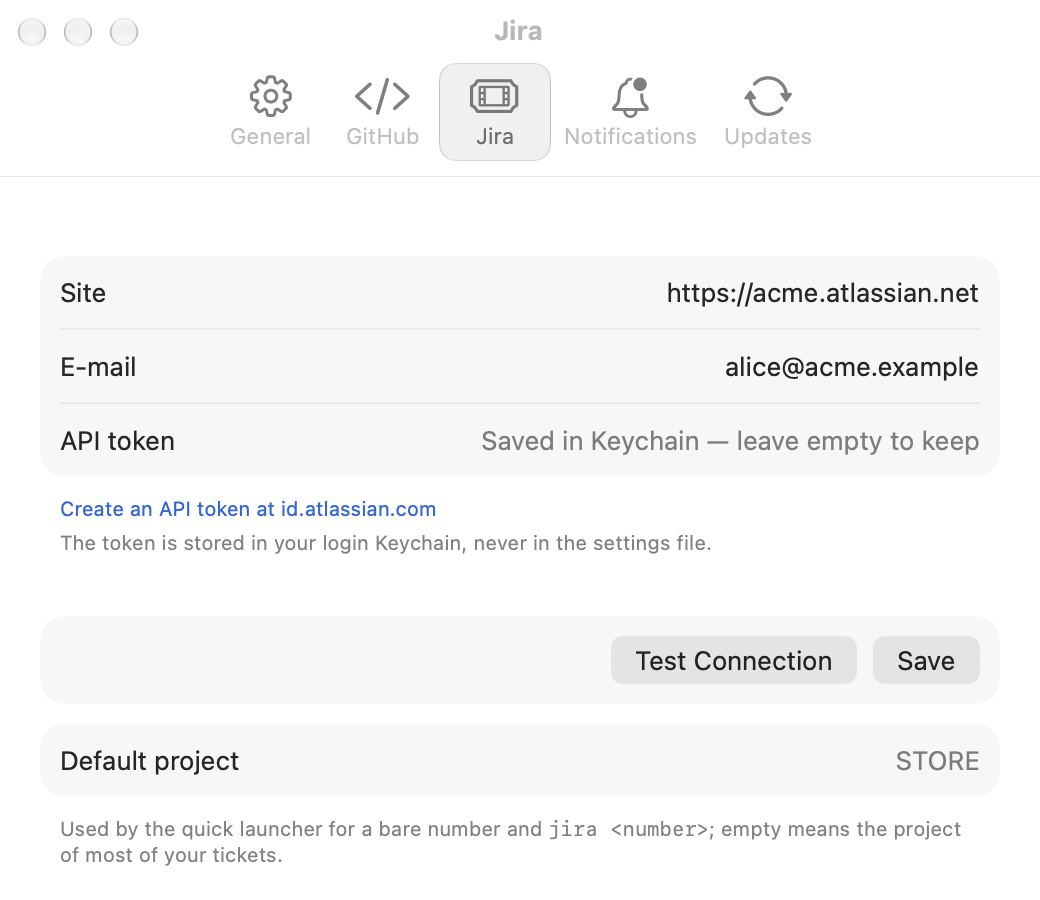
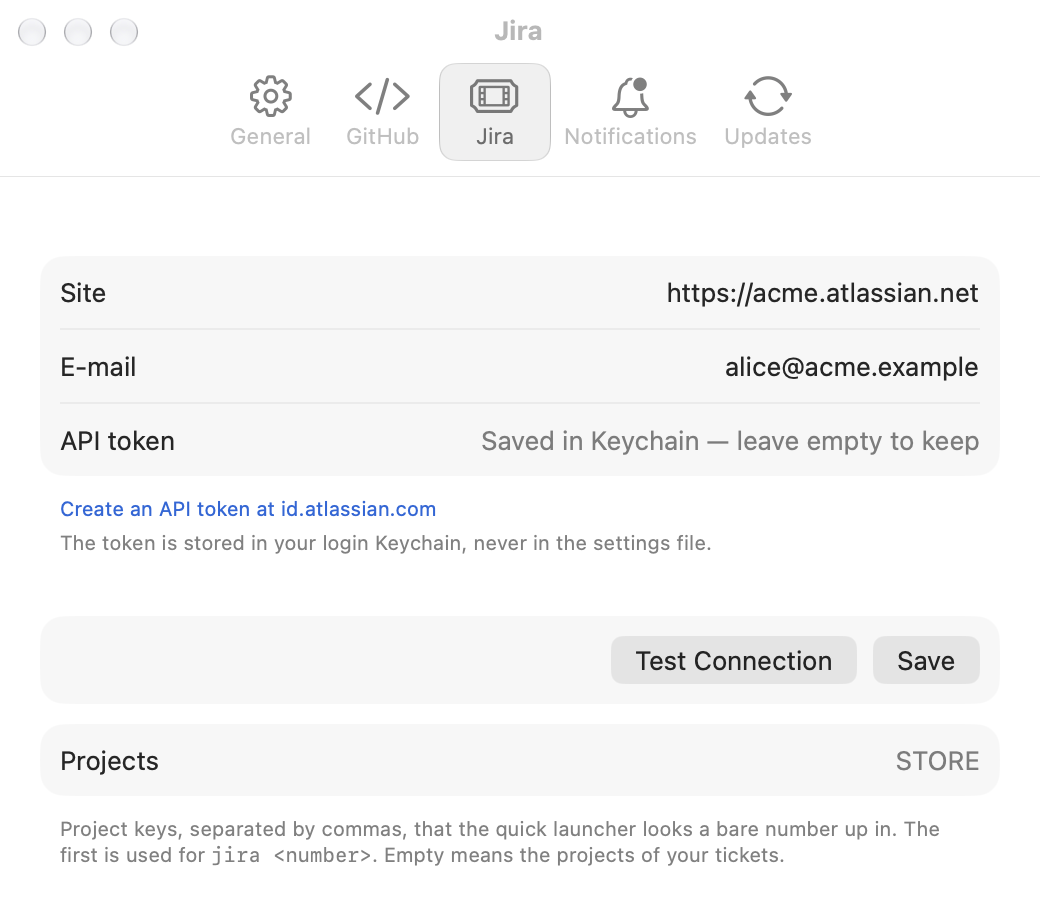
docs: the Projects setting and looked-up titles in the quick launcher

Changed region(s): [[0.0615, 0.9022, 0.9231, 0.9644], [0.0615, 0.84, 0.2462, 0.8711]]

diff --git a/docs/cs/manual.html b/docs/cs/manual.html
@@ -160,7 +160,7 @@ gh auth login</code></pre>
         <p>Otevřené tikety z Jira Cloud čte DevPulse pomocí API tokenu.</p>
         <figure class="fig" style="max-width:34rem">
           <div class="view" style="--iw:1040;--ih:900">
-            <img src="../assets/manual/devpulse-settings-jira.png" alt="Záložka Jira v nastavení s webem, e-mailem, uloženým tokenem, tlačítky Test Connection a Save a výchozím projektem">
+            <img src="../assets/manual/devpulse-settings-jira.png" alt="Záložka Jira v nastavení s webem, e-mailem, uloženým tokenem, tlačítky Test Connection a Save a projekty">
             <span class="mark" style="--x:3.8;--y:28.5;--w:92.3;--h:24.4"><b>1</b></span>
             <span class="mark" style="--x:5.3;--y:54.8;--w:37.5;--h:3.6"><b>2</b></span>
             <span class="mark" style="--x:58.4;--y:70.4;--w:24.4;--h:6"><b>3</b></span>
@@ -189,10 +189,11 @@ gh auth login</code></pre>
         Keychain — leave empty to keep</span>: když měníte <span class="ui">Site</span> nebo e-mail,
         nechte ho prázdné a token zůstane, nebo vložte nový a nahradíte ho.</p>
         <dl class="controls">
-          <dt><span class="n">5</span>Default project</dt>
-          <dd>Klíč projektu, který <a href="#launcher">rychlé hledání</a> doplní
-          před <code>jira &lt;číslo&gt;</code> a samotné číslo. Prázdné pole znamená projekt,
-          ve kterém máte nejvíc tiketů; pole ho ukazuje šedě.</dd>
+          <dt><span class="n">5</span>Projects</dt>
+          <dd>Klíče projektů oddělené čárkou (<code>STORE, WA</code>), ve kterých
+          <a href="#launcher">rychlé hledání</a> hledá samotné číslo; první z nich doplní
+          před <code>jira &lt;číslo&gt;</code>. Nejvýš deset. Prázdné pole znamená projekty
+          vašich tiketů, nejdřív ten, kde jich máte nejvíc; pole je ukazuje šedě.</dd>
         </dl>
         <p>DevPulse ukazuje tikety, které máte přiřazené a které ještě nejsou
         hotové.</p>
@@ -257,7 +258,7 @@ gh auth login</code></pre>
         klíč v názvu složky session Claude Code udělá totéž pro session. Názvy
         jako <code>UTF-8</code> nebo <code>SHA-256</code> se za klíče
         nepovažují, a když je klíčů víc, vyhraje klíč projektu, ve kterém máte
-        tikety (nebo <a href="#jira">výchozího projektu</a>). Když najedete
+        tikety (nebo jednoho z vašich <a href="#jira">projektů</a>). Když najedete
         myší na řádek, uvidíte celý název nebo složku.</p>
         <p>DevPulse ukazuje interaktivní sessions nativního příkazu
         <code>claude</code>, tedy toho, který nainstaluje vlastní instalátor
@@ -431,15 +432,15 @@ gh auth login</code></pre>
           <table>
             <thead><tr><th>Napíšete</th><th>Výsledek</th></tr></thead>
             <tbody>
-              <tr><td><code>2474</code></td><td>Všechno s tímto číslem: vaše pull requesty a žádosti o review s číslem 2474 v libovolném repozitáři, za nimi vaše tikety s číslem 2474 v libovolném projektu (<code>STORE-2474</code>, <code>WA-2474</code>) a sessions Claude Code, jejichž klíč z Jiry nebo název složky toto číslo obsahuje (<code>store-2474-fix</code>, ale ne <code>store-24740</code>). Nakonec řádky, které otevřou 2474 ve <a href="#github">výchozím repozitáři</a> a <code>STORE-2474</code> ve <a href="#jira">výchozím projektu</a>, pokud už v seznamu nejsou.</td></tr>
+              <tr><td><code>2474</code></td><td>Všechno s tímto číslem: vaše pull requesty a žádosti o review s číslem 2474 v libovolném repozitáři, za nimi vaše tikety s číslem 2474 v libovolném projektu (<code>STORE-2474</code>, <code>WA-2474</code>) a sessions Claude Code, jejichž klíč z Jiry nebo název složky toto číslo obsahuje (<code>store-2474-fix</code>, ale ne <code>store-24740</code>). Nakonec pull request 2474 ve <a href="#github">výchozím repozitáři</a> a tiket 2474 v každém z vašich <a href="#jira">projektů</a> (<code>STORE-2474</code>, <code>WA-2474</code>), pokud už v seznamu nejsou. Jakmile přestanete psát, DevPulse tyto řádky dohledá: ukážou název a stav a tikety nebo pull requesty, které neexistují, zmizí.</td></tr>
               <tr><td><code>gh</code></td><td>Vaše pull requesty, za nimi žádosti o review.</td></tr>
               <tr><td><code>gh invoice</code></td><td>Ty, jejichž název nebo repozitář text obsahuje.</td></tr>
-              <tr><td><code>gh 812</code></td><td>Váš pull request nebo žádost o review s tímto číslem. Když takový nemáte, řádek, který otevře <code>812</code> ve <a href="#github">výchozím repozitáři</a>.</td></tr>
+              <tr><td><code>gh 812</code></td><td>Váš pull request nebo žádost o review s tímto číslem. Když takový nemáte, pull request 812 ve <a href="#github">výchozím repozitáři</a> s názvem a stavem, nebo <span class="ui">Not found on GitHub</span>.</td></tr>
               <tr><td><code>gh webapp 455</code></td><td>Pull request 455 v daném repozitáři: stačí název repozitáře, ve kterém máte pull requesty, nebo celé <code>owner/name</code>.</td></tr>
               <tr><td><code>jira</code></td><td>Vaše tikety.</td></tr>
               <tr><td><code>jira export</code></td><td>Ty, jejichž název nebo klíč text obsahuje.</td></tr>
-              <tr><td><code>jira STORE-2290</code></td><td>Tento tiket, i když ve vašem seznamu není.</td></tr>
-              <tr><td><code>jira 2290</code></td><td>Totéž s <a href="#jira">výchozím projektem</a> na začátku: <code>STORE-2290</code>.</td></tr>
+              <tr><td><code>jira STORE-2290</code></td><td>Tento tiket, i když ve vašem seznamu není, s názvem a stavem, nebo <span class="ui">Not found in Jira</span>.</td></tr>
+              <tr><td><code>jira 2290</code></td><td>Tiket 2290 v každém z vašich <a href="#jira">projektů</a>. Řádek prvního projektu zůstane, i když tiket neexistuje.</td></tr>
             </tbody>
           </table>
         </div>

diff --git a/docs/manual.html b/docs/manual.html
@@ -159,7 +159,7 @@ gh auth login</code></pre>
         <p>DevPulse reads your open Jira Cloud tickets with an API token.</p>
         <figure class="fig" style="max-width:34rem">
           <div class="view" style="--iw:1040;--ih:900">
-            <img src="assets/manual/devpulse-settings-jira.png" alt="The Jira tab of Settings with site, e-mail, a saved token, the Test Connection and Save buttons and the default project">
+            <img src="assets/manual/devpulse-settings-jira.png" alt="The Jira tab of Settings with site, e-mail, a saved token, the Test Connection and Save buttons and the projects">
             <span class="mark" style="--x:3.8;--y:28.5;--w:92.3;--h:24.4"><b>1</b></span>
             <span class="mark" style="--x:5.3;--y:54.8;--w:37.5;--h:3.6"><b>2</b></span>
             <span class="mark" style="--x:58.4;--y:70.4;--w:24.4;--h:6"><b>3</b></span>
@@ -189,10 +189,11 @@ gh auth login</code></pre>
         Keychain — leave empty to keep</span>: leave it empty to keep the token
         when you change the site or e-mail, or paste a new one to replace it.</p>
         <dl class="controls">
-          <dt><span class="n">5</span>Default project</dt>
-          <dd>The project key the <a href="#launcher">quick launcher</a> puts in
-          front of <code>jira &lt;number&gt;</code> and a bare number. Empty means the project of
-          most of your tickets; the field shows it in grey.</dd>
+          <dt><span class="n">5</span>Projects</dt>
+          <dd>The project keys, separated by commas (<code>STORE, WA</code>), in which the
+          <a href="#launcher">quick launcher</a> looks up a bare number; the first one is what
+          <code>jira &lt;number&gt;</code> puts in front. Up to ten. Empty means the projects of
+          your tickets, most tickets first; the field shows them in grey.</dd>
         </dl>
         <p>DevPulse lists the tickets assigned to you that are not done.</p>
       </section>
@@ -255,7 +256,7 @@ gh auth login</code></pre>
         ticket; a Jira key in a Claude Code session's folder name does the same
         for the session. Names such as <code>UTF-8</code> or <code>SHA-256</code>
         do not count as keys, and when there are several keys, one of a project
-        you have tickets in (or of the <a href="#jira">default project</a>)
+        you have tickets in (or of one of your <a href="#jira">projects</a>)
         wins. Hover over a row to see its full title or folder.</p>
         <p>DevPulse shows the interactive sessions of the native
         <code>claude</code> command, the one Claude Code's own installer puts
@@ -429,15 +430,15 @@ gh auth login</code></pre>
           <table>
             <thead><tr><th>Type</th><th>Result</th></tr></thead>
             <tbody>
-              <tr><td><code>2474</code></td><td>Everything with that number: your pull requests and review requests numbered 2474 in any repository, then your tickets numbered 2474 in any project (<code>STORE-2474</code>, <code>WA-2474</code>), then the Claude Code sessions whose Jira key or folder name has that number (<code>store-2474-fix</code>, but not <code>store-24740</code>). Last, rows that open 2474 in the <a href="#github">default repository</a> and <code>STORE-2474</code> in the <a href="#jira">default project</a>, unless they are already in the list.</td></tr>
+              <tr><td><code>2474</code></td><td>Everything with that number: your pull requests and review requests numbered 2474 in any repository, then your tickets numbered 2474 in any project (<code>STORE-2474</code>, <code>WA-2474</code>), then the Claude Code sessions whose Jira key or folder name has that number (<code>store-2474-fix</code>, but not <code>store-24740</code>). Last, pull request 2474 of the <a href="#github">default repository</a> and ticket 2474 of each of your <a href="#jira">projects</a> (<code>STORE-2474</code>, <code>WA-2474</code>), unless they are already in the list. Once you stop typing, DevPulse looks these rows up: they show their title and state, and tickets or pull requests that do not exist disappear.</td></tr>
               <tr><td><code>gh</code></td><td>Your pull requests, then your review requests.</td></tr>
               <tr><td><code>gh invoice</code></td><td>Those whose title or repository contains the text.</td></tr>
-              <tr><td><code>gh 812</code></td><td>Your pull request or review request with that number. If you have none, a row that opens <code>812</code> in the <a href="#github">default repository</a>.</td></tr>
+              <tr><td><code>gh 812</code></td><td>Your pull request or review request with that number. If you have none, pull request 812 of the <a href="#github">default repository</a>, with its title and state, or <span class="ui">Not found on GitHub</span>.</td></tr>
               <tr><td><code>gh webapp 455</code></td><td>Pull request 455 in that repository: the name of a repository you have pull requests in, or a full <code>owner/name</code>.</td></tr>
               <tr><td><code>jira</code></td><td>Your tickets.</td></tr>
               <tr><td><code>jira export</code></td><td>Those whose summary or key contains the text.</td></tr>
-              <tr><td><code>jira STORE-2290</code></td><td>That ticket, even when it is not in your list.</td></tr>
-              <tr><td><code>jira 2290</code></td><td>The same, with the <a href="#jira">default project</a> in front: <code>STORE-2290</code>.</td></tr>
+              <tr><td><code>jira STORE-2290</code></td><td>That ticket, even when it is not in your list, with its summary and status, or <span class="ui">Not found in Jira</span>.</td></tr>
+              <tr><td><code>jira 2290</code></td><td>Ticket 2290 of each of your <a href="#jira">projects</a>. The row of the first project stays even when the ticket does not exist.</td></tr>
             </tbody>
           </table>
         </div>

diff --git a/docs/superpowers/specs/2026-11-19-devpulse-design.md b/docs/superpowers/specs/2026-11-19-devpulse-design.md
@@ -329,15 +329,15 @@ configurable in Settings and must not collide with the system Spotlight shortcut
 
 | Typed | Result |
 |---|---|
-| `<number>` | everything with that number: my PRs and review requests in any repo, my tickets in any project, sessions whose key or folder has it; then rows that open it in the default repo and the default project |
+| `<number>` | everything with that number: my PRs and review requests in any repo, my tickets and my PRs' tickets in any project, sessions whose key or folder has it; then the PR in the default repo and the ticket in each of the Settings' Jira projects (up to 10; empty = the projects of my tickets). Those rows are looked up after a 300 ms typing pause (one Jira bulk fetch for all keys, one GitHub `GET /repos/{repo}/pulls/{n}`, answers cached 5 min) to show title and state; ones that do not exist are dropped |
 | `gh` | my PRs and review requests; arrows select, `Enter` opens |
 | `gh <text>` | filters by title or repo |
 | `gh <number>` | filters known PRs to that number. If exactly one matches, `Enter` opens it. If none matches, `Enter` opens `<default repo>/pull/<number>`. The default repo is set in Settings and pre-filled with the repo of most of my PRs. |
 | `gh <repo> <number>` | opens that PR in that repo. `<repo>` is a repo name of a known PR (e.g. `webapp`) or a full `owner/name`. |
 | `jira` | my tickets |
 | `jira <text>` | filters by summary |
-| `jira <KEY-123>` | opens that ticket, even if it is not in my list |
-| `jira <123>` | expands to `<default project>-123`. The default project is set in Settings and pre-filled with the most frequent key prefix among my tickets (my call). |
+| `jira <KEY-123>` | opens that ticket, even if it is not in my list; looked up like a bare number's rows, and "Not found in Jira" when it does not exist |
+| `jira <123>` | ticket 123 of each Jira project in Settings; the first project's row stays (as "Not found") when it does not exist. Without projects: those of my tickets, most tickets first. |
 | `Esc` | closes the panel |
 | `⌘Enter` | opens the linked Jira ticket of a PR |
 

diff --git a/CHANGELOG.md b/CHANGELOG.md
@@ -1,5 +1,18 @@
 # Changelog
 
+## Unreleased
+
+- Settings › Jira › Projects: list the Jira projects (`STORE, WA`) in which the quick launcher
+  looks up a bare number; it shows a row for each of them. It replaces the single default
+  project, and your earlier choice is kept as the first entry. The first project is the one
+  `jira <number>` uses.
+- The quick launcher shows the title and state of tickets and pull requests that are not in your
+  lists: once you stop typing, it asks Jira and GitHub about them (one request each). Tickets or
+  pull requests that do not exist disappear from a bare number's results, and `jira <key>` or
+  `gh <number>` say "Not found".
+- The quick launcher also finds the tickets of your pull requests that are not assigned to you.
+- A pull request links to a Jira key of any project in the list, not only the default one.
+
 ## 0.9.1 — 2026-11-20
 
 - In the `devpulse` terminal UI, a plain click (or ⌘-click) on an underlined link in the detail
